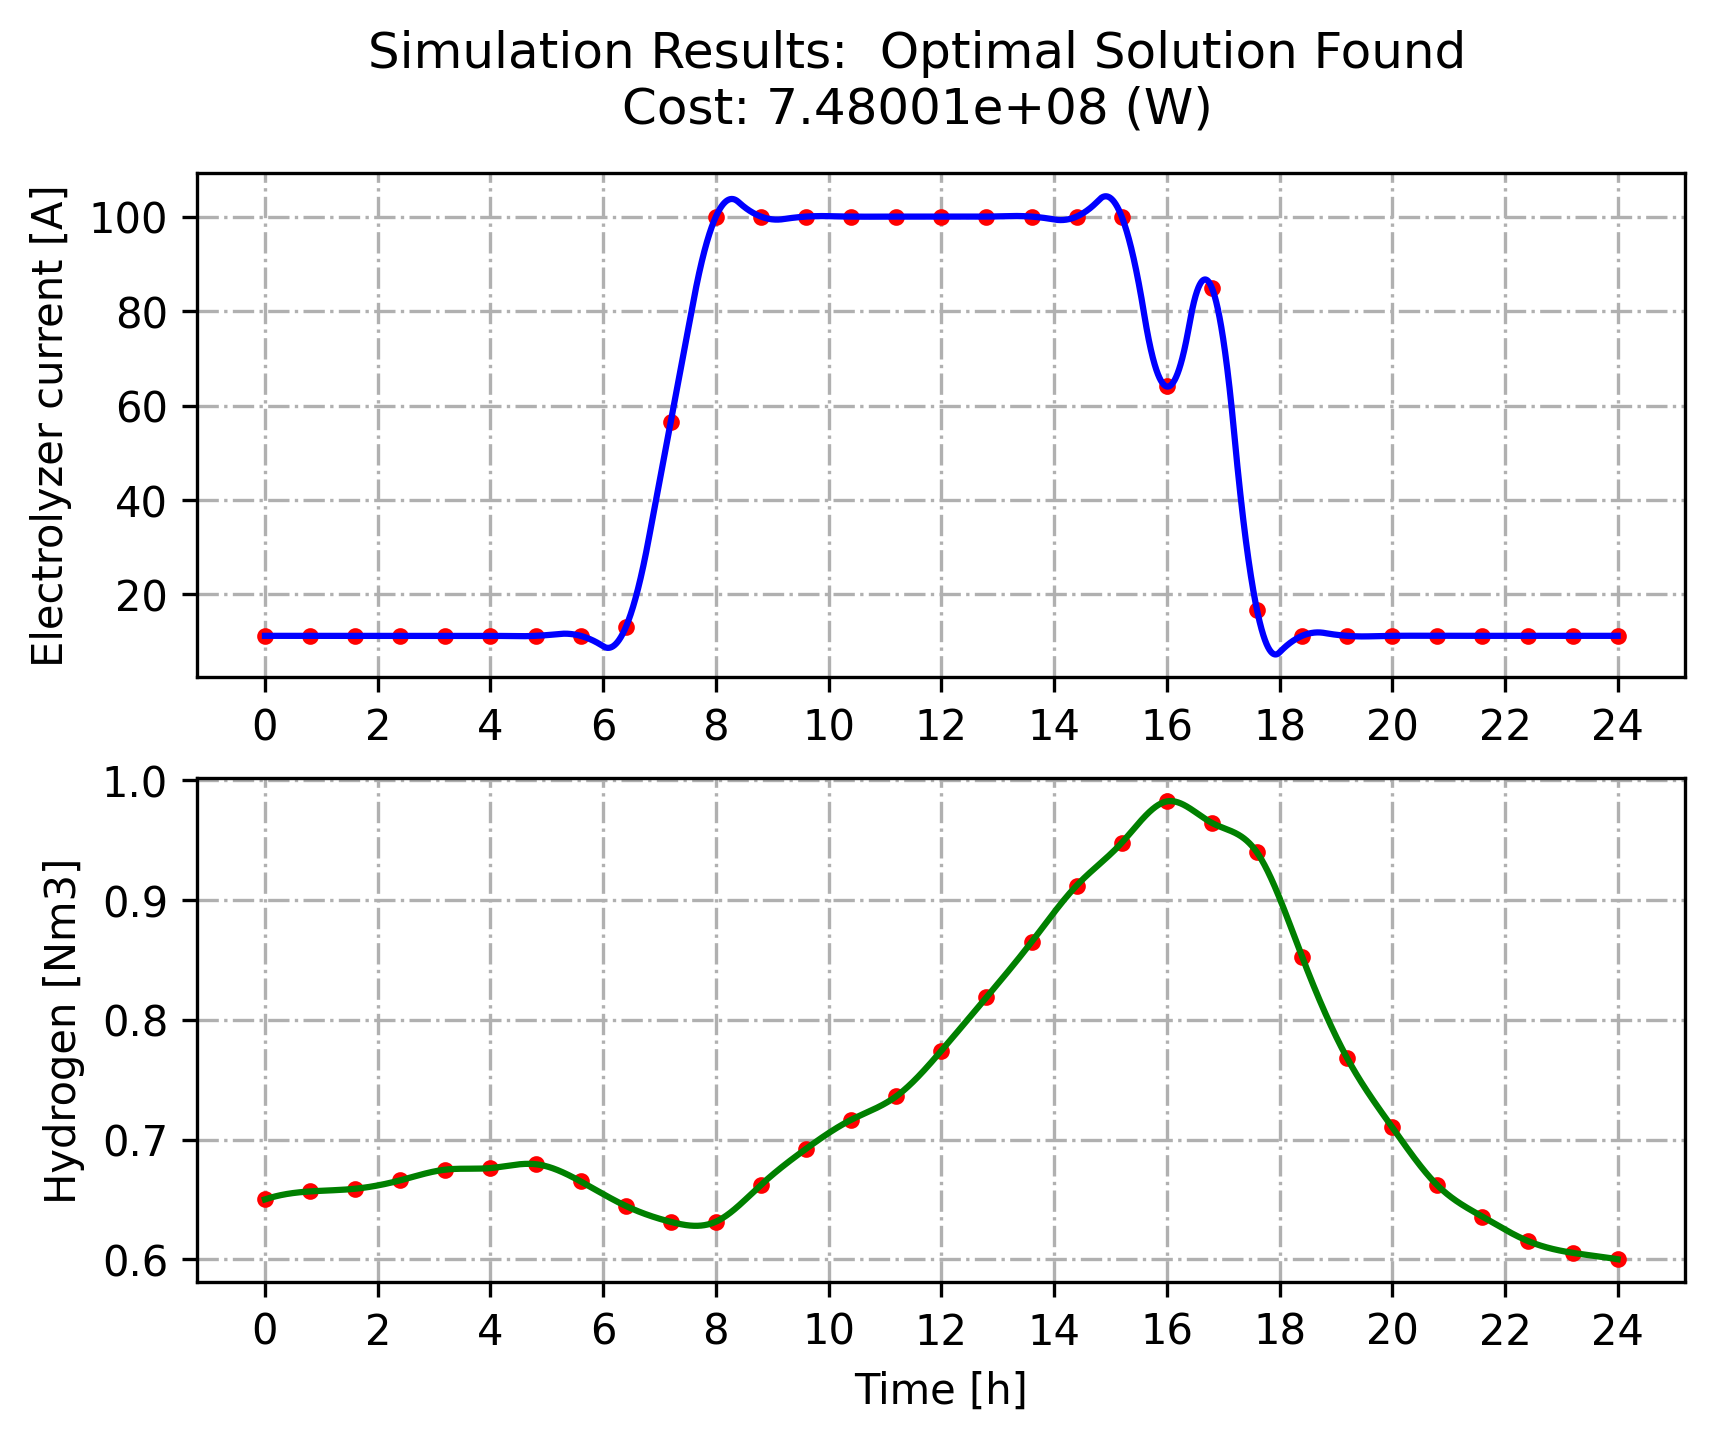
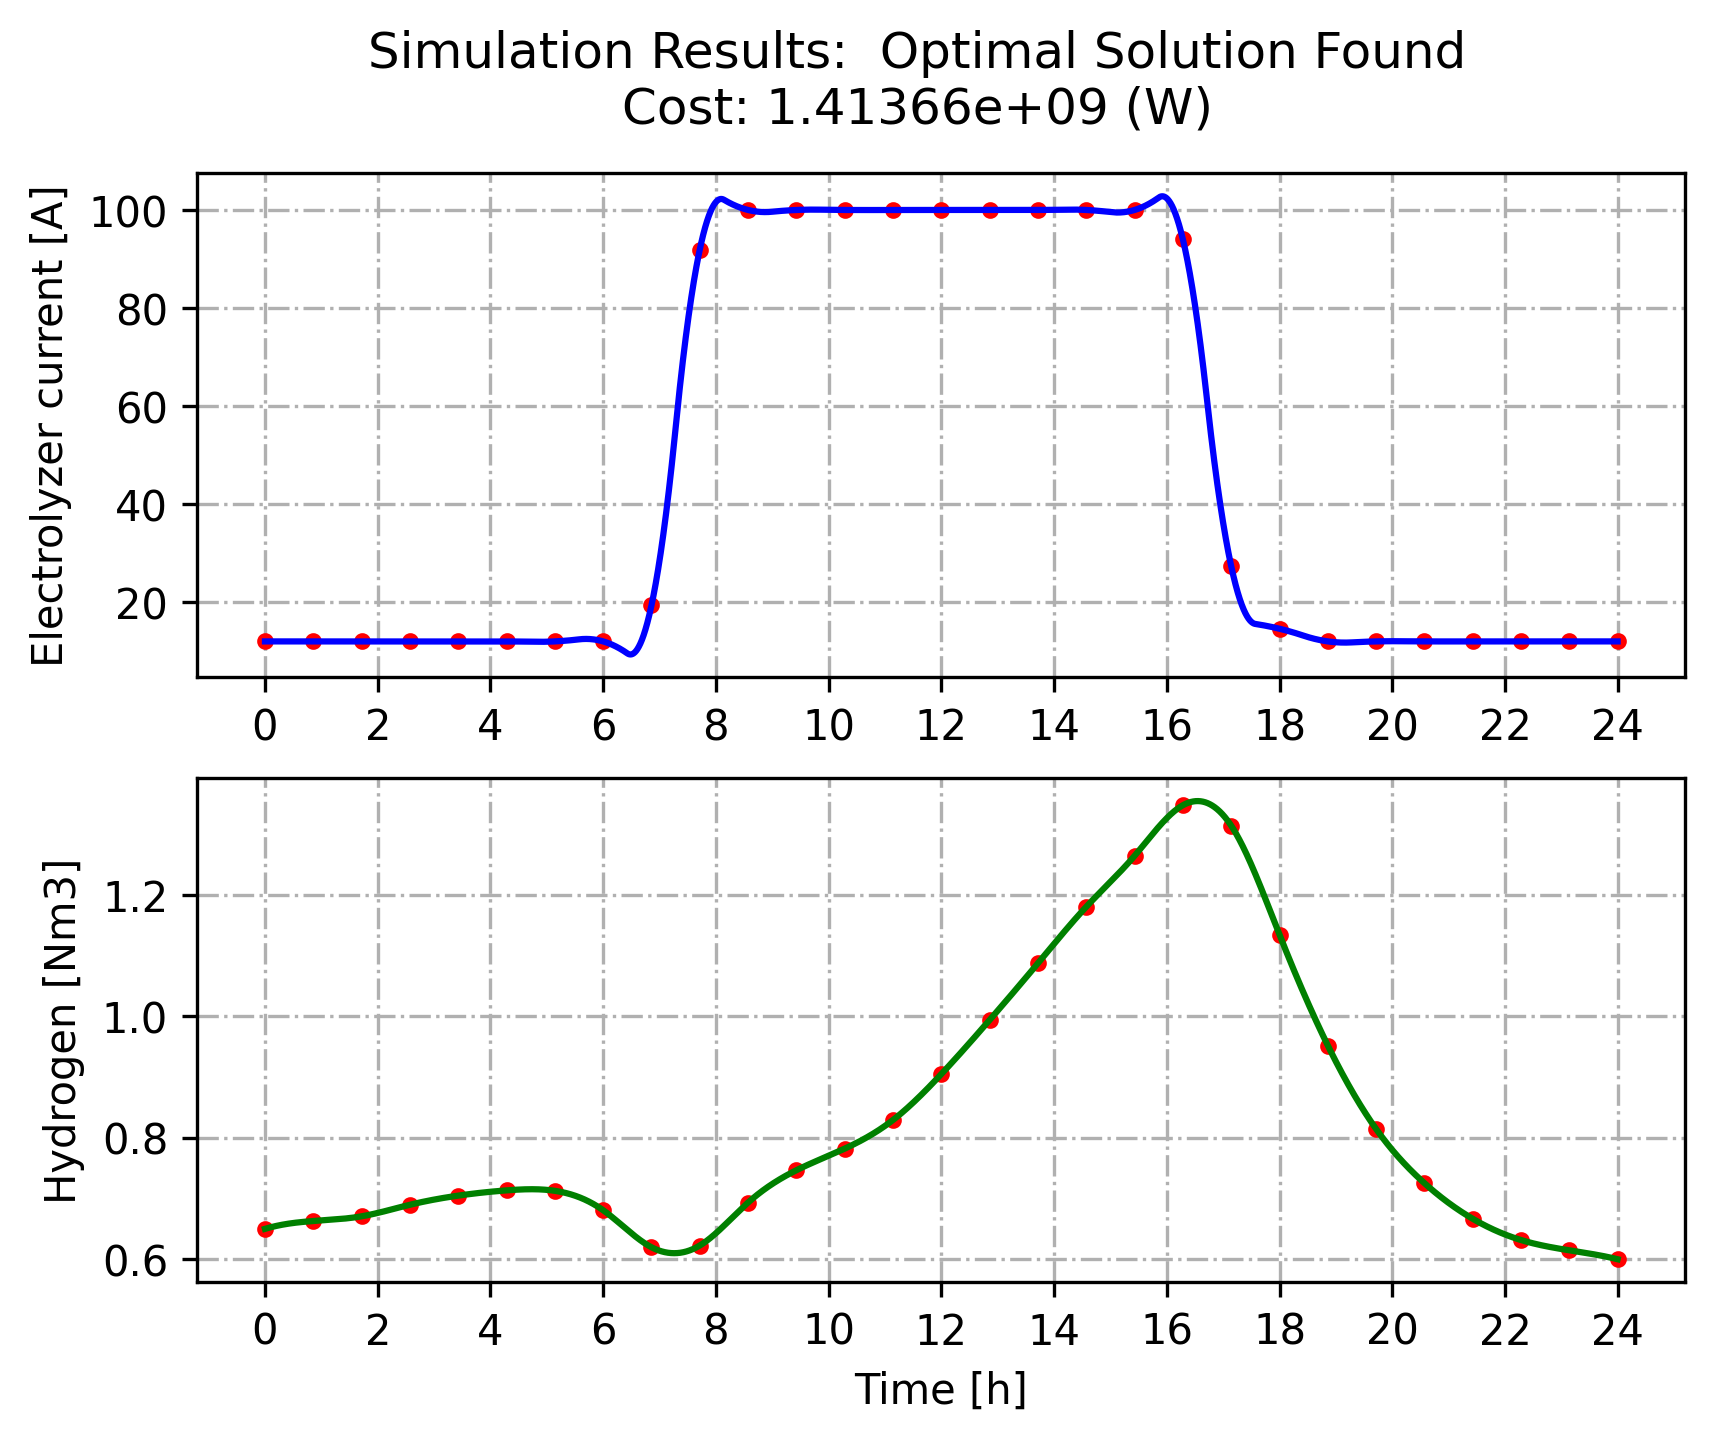
Fix Hermit-Simpsom Collacation

diff --git a/ocp-1-hs-collocation.py b/ocp-1-hs-collocation.py
@@ -38,13 +38,13 @@ f_l = (p_el - p_ps)**2
 
 # Creat NPL problem
 f = ca.Function('f', [v_h2, i_el, time], [v_h2_dot, f_l], ['x', 'u', 't'], ['x_dot', 'L'])
-t = np.linspace(0, Tf, num=2*N+1, endpoint=True)
-h = [t[k+1]-t[k] for k in range(t.size-1)]
+t = np.linspace(0, Tf, num=N, endpoint=True)
+h = Tf/N
 
 X = []
 U = []
 
-for k in np.arange(0, N+.5, .5):
+for k in np.arange(0, N-.5, .5):
     X += [ca.MX.sym('X_' + str(k))]
     U += [ca.MX.sym('U_' + str(k))]
 
@@ -52,18 +52,18 @@ L = 0
 g = []
 lbg = []
 ubg = []
-for k in np.arange(0, 2*N, 2):
+for k in np.arange(0, 2*N-2, 2):
     i = int(k/2)
-    f_k_0, w_k_0 = f(X[k], U[k], t[k])
-    f_k_1, w_k_1 = f(X[k+1], U[k+1], t[k+1])
-    f_k_2, w_k_2 = f(X[k+2], U[k+2], t[k+2])
-    L = L + h[i]*(w_k_0 + 4*w_k_1 + w_k_2)/6
+    f_k_0, w_k_0 = f(X[k], U[k], t[i])
+    f_k_1, w_k_1 = f(X[k+1], U[k+1], t[i]+h/2)
+    f_k_2, w_k_2 = f(X[k+2], U[k+2], t[i+1])
+    L = L + h*(w_k_0 + 4*w_k_1 + w_k_2)/6
 
     # Add equality constraint
-    g +=  [h[i]*(f_k_0 + 4*f_k_1 + f_k_2)/6 + X[k] - X[k+2]]
+    g +=  [X[k+2] - X[k] - h*(f_k_0 + 4*f_k_1 + f_k_2)/6]
     lbg += [0]
     ubg += [0]
-    g +=  [.5*(X[k+2] + X[k]) + h[i]*(f_k_0 - f_k_1)/8 - X[k+1]]
+    g +=  [X[k+1] - (X[k+2] + X[k])/2 - h*(f_k_0 - f_k_2)/8]
     lbg += [0]
     ubg += [0]
 
@@ -76,7 +76,7 @@ ubw = []
 x_plot = []
 u_plot = []
 
-for k in range(2*N+1):
+for k in range(2*N-1):
     # New NLP variable for the control
     w += [U[k]]
     lbw += [I_e_min]
@@ -128,6 +128,7 @@ x_opt = x_opt.full().flatten()
 u_opt = u_opt.full().flatten()
 
 # Plot results
+t = np.linspace(0, Tf, num=2*N-1, endpoint=True)
 f_x_opt = interpolate.interp1d(t, x_opt, kind=3) # k=3 is a cubic spline
 f_u_opt = interpolate.interp1d(t, u_opt, kind=2) # k=2 is a quadratic spline
 t_new = np.arange(0, Tf, 0.1)
@@ -149,14 +150,14 @@ axs[1].set_xticks(np.arange(0, 26, 2))
 plt.savefig(files.get_plot_file_name(__file__), bbox_inches='tight', dpi=300)
 
 # Evaluate the error
-te = np.linspace(0, Tf, num=2*N, endpoint=True)
+te = np.linspace(0, Tf, num=10*N, endpoint=True)
 f_interpolated = interpolate.interp1d(t, f(x_opt, u_opt, t)[0].full().flatten(), kind=2)
 error = f(f_x_opt(te), f_u_opt(te), te)[0] - f_interpolated(te)
 
 # Plot error
 fig2 = plt.figure(2)
 fig2.suptitle('Erro in differential equations')
-plt.plot(te/60, error, '-', t/60, np.zeros(len(t)), '.r')
+plt.plot(te/60, error, '.', t/60, np.zeros(len(t)), '.r')
 plt.ylabel('Error')
 plt.xlabel('Time [h]')
 plt.grid(axis='both',linestyle='-.')
